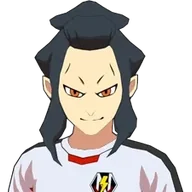
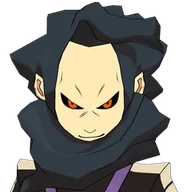
Pack de sprites del Épsilon y Épsilon Plus (IE2), con Dvalin y Zel en su versión alienígena
- Nueva herramienta tools/pixelart/vector/refs_wiki.py: baja las vistas 3D de la wiki inglesa para versiones que
  no están en la enciclopedia oficial (los alienígenas de Alius: (E) Desarm 3D, (E) Zel 3D...).
- Dvalin (Desarm), Zel, Kenvil, Mole, Keison, Titan, Fadra, Krypto, Swarm, Metron y Macure, como versión propia de
  estos dos equipos para no pisar su aspecto humano en Neo Japón o la Academia Alia.
- Retratos de Dvalin y Zel en estos equipos cambiados por su versión alienígena (antes salían de humanos).
- Equipación roja con mangas y pantalón grises; el portero de negro.

Claude-Session: https://claude.ai/code/session_017aMt3jMk1P86z2meq8r1MR

diff --git a/tools/pixelart/vector/chars_epsilon.py b/tools/pixelart/vector/chars_epsilon.py
@@ -1,0 +1,260 @@
+"""Épsilon y Épsilon Plus (IE2): la versión alienígena de la Academia Alius (Dvalin/Desarm, Zel, Metron...), con los
+modelos 3D de la wiki (Desarm, Zel, Macure) y los retratos. Van por equipo ('<equipo>:<jugador>') porque Dave Quagmire,
+Zeke Valanche y Ronny Metcalf salen también con su aspecto humano en otros equipos (Neo Japón, Academia Alia...)."""
+from chars import CHARS, L, OUTC, blob, bumpy, ell, pal, sheen, spk, strand
+from chars_otaku import back_hair
+from chars_sengoku import wavy
+from heads import quad
+
+WHITE = (255, 255, 255, 255)
+SIDE_SKULL = [(44, 92), (22, 88), (12, 64), (14, 36), (30, 16), (56, 10), (78, 18), (88, 36), (76, 44), (60, 48), (52, 62), (50, 80)]
+SKULL_F = [(16, 64), (14, 36), (26, 14), (50, 6), (74, 14), (86, 36), (84, 64)]
+SKULL_B = [(16, 70), (14, 36), (26, 14), (50, 6), (74, 14), (86, 36), (84, 70), (66, 86), (34, 86)]
+LONG_FACE = quad((20, 52), (18, 104), (50, 114)) + quad((50, 114), (82, 104), (80, 52))[1:] + quad((80, 52), (50, 26), (20, 52))[1:-1]
+E = {}
+
+
+def bald(view, c='skin', cd='skin_d'):
+    if view == 'front':
+        return [L(blob(SKULL_F), c), L(blob([(62, 12), (86, 34), (84, 62), (72, 58)], 6), cd, 'b', False)]
+    if view == 'side':
+        return [L(blob(SIDE_SKULL), c)]
+    return [L(blob(SKULL_B), c), L(blob([(58, 12), (86, 36), (84, 68), (66, 84)], 6), cd, 'b', False)]
+
+
+# ------------------------------------------------------------------ Dvalin (Desarm, el capitán): melena azul marino oscura enorme de
+# mechones en capas que sube hacia atrás como un cono, un cuello alto de tela oscura que le tapa la barbilla, piel pálida,
+# ojos naranjas y sonrisa maligna
+def jag(pts, depth=7, n=None):
+    """Contorno de mechones en capas: entre cada par de puntos, una punta hacia fuera."""
+    import math
+    out = []
+    for i in range(len(pts)):
+        a, b = pts[i], pts[(i + 1) % len(pts)]
+        mx, my = (a[0] + b[0]) / 2, (a[1] + b[1]) / 2
+        dx, dy = b[0] - a[0], b[1] - a[1]
+        ln = math.hypot(dx, dy) or 1
+        out += [a, (mx + dy / ln * depth, my - dx / ln * depth)]
+    return out
+
+
+# melena: un bloque alto de mechones en capas que sube hacia atrás
+DES_MANE_F = [L(jag([(2, 86), (-2, 56), (2, 28), (14, 6), (32, -12), (50, -22), (68, -12), (86, 6), (98, 28), (102, 56), (98, 86)], 8)),
+              L(blob([(60, -10), (94, 24), (98, 80), (84, 76)], 6), 'shade', 'b', False)] \
+             + [strand([(10 + k * 3, 20 + k * 14), (50, 6 + k * 14), (90 - k * 3, 20 + k * 14)], 'deep', 'b', 1.2) for k in range(4)]
+E['dave-quagmire'] = {
+    'body': 'normal', 'pal': pal('#24303e', '#f4dca4', iris='#e05010', cowl='#2a323e', cowl_d='#1a2028'),
+    'face': {'eyes': 'sharp', 'brows': 'angry', 'mouth': 'smile', 'mouth_y': 90, 'face_front': LONG_FACE, 'hairline': [(16, 72), (24, 54), (40, 40), (50, 48), (60, 40), (76, 54), (84, 72)]},
+    'front': DES_MANE_F + [
+                           spk((12, 46), (26, 40), (18, 84), 4, z='f'), spk((74, 40), (88, 46), (82, 84), 4, z='f', light_left=False),
+                           spk((40, 34), (50, 30), (46, 54), 3, z='f'), spk((50, 30), (60, 34), (54, 54), 3, z='f', light_left=False),
+                           L(blob([(6, 92), (14, 80), (28, 96), (50, 106), (72, 96), (86, 80), (94, 92), (90, 116), (50, 124), (10, 116)]), 'cowl', 'f', ln=True),
+                           L(blob([(56, 104), (86, 84), (90, 114), (56, 120)], 5), 'cowl_d', 'f', False)],
+    'side': [L(jag([(50, 92), (14, 92), (-6, 60), (-10, 24), (4, -6), (28, -24), (56, -20), (80, -2), (94, 26), (88, 46), (74, 44), (60, 50), (54, 70)], 8)),
+             strand([(70, -6), (30, 0), (2, 30)], 'deep', 'b', 1.2), strand([(80, 14), (40, 18), (0, 54)], 'deep', 'b', 1.2),
+             L(blob([(8, 46), (12, 84), (40, 88), (24, 60)], 6), 'shade', 'b', False),
+             spk((58, 26), (88, 36), (92, 66), 5, z='f', light_left=False),
+             L(blob([(30, 90), (60, 92), (90, 98), (92, 112), (60, 120), (26, 112)]), 'cowl', 'f', ln=True)],
+    'back': [L(jag([(2, 84), (-2, 56), (2, 28), (14, 6), (32, -12), (50, -22), (68, -12), (86, 6), (98, 28), (102, 56), (98, 84), (50, 88)], 8)),
+             L(blob([(58, -8), (96, 30), (96, 80), (66, 84)], 6), 'shade', 'b', False)]
+            + [strand([(4 + k * 2, 10 + k * 16), (50, -4 + k * 16), (96 - k * 2, 10 + k * 16)], 'deep', 'b', 1.2) for k in range(4)] + [
+                          L(blob([(8, 96), (50, 102), (92, 96), (90, 116), (50, 122), (10, 116)]), 'cowl', 'f', ln=True)],
+}
+E['dave-quagmire-desarm-cc'] = E['dave-quagmire']
+
+# ------------------------------------------------------------------ Zel: piel morena, pelo blanco peinado hacia arriba y a un lado
+# con un mechón en punta, ojos rojos y sonrisa con colmillos
+E['zeke-valanche'] = {
+    'body': 'normal', 'pal': pal('#ece4e0', '#a06a44', iris='#d0301a', shade='#c8b4b0'),
+    'face': {'eyes': 'sharp', 'brows': 'angry', 'mouth': 'grin', 'mouth_y': 92, 'hairline': (58, 50)},
+    'front': [spk((52, 10), (70, 14), (92, -14), 6, light_left=False), spk((32, 12), (52, 8), (44, -10), 5),
+              L(blob([(10, 74), (8, 40), (20, 14), (50, 6), (80, 14), (92, 40), (90, 74), (80, 66), (20, 66)])),
+              spk((6, 60), (12, 74), (-6, 80), 4), spk((88, 74), (94, 60), (106, 80), 4, light_left=False),
+              L(blob([(62, 12), (90, 38), (88, 70), (78, 66)], 6), 'shade', 'b', False),
+              spk((12, 46), (30, 38), (18, 70), 5, z='f'), spk((30, 38), (50, 32), (40, 58), 5, z='f'),
+              spk((50, 32), (70, 36), (62, 58), 5, z='f', light_left=False), spk((70, 38), (88, 46), (84, 70), 5, z='f', light_left=False)],
+    'side': [spk((40, 10), (60, 6), (64, -20), 6, light_left=False), spk((18, 34), (30, 16), (-6, 10), 6),
+             L(blob(SIDE_SKULL)), L(blob([(16, 48), (18, 76), (38, 88), (28, 60)], 6), 'shade', 'b', False),
+             spk((14, 60), (18, 44), (-8, 58), 5), spk((18, 76), (24, 62), (0, 86), 4),
+             spk((56, 30), (88, 40), (92, 66), 5, z='f', light_left=False)],
+    'back': [spk((52, 10), (70, 14), (92, -14), 6, light_left=False), spk((32, 12), (52, 8), (44, -10), 5),
+             L(blob([(10, 76), (8, 40), (20, 14), (50, 6), (80, 14), (92, 40), (90, 76), (66, 88), (34, 88)])),
+             spk((12, 74), (30, 86), (8, 98), 5), spk((30, 88), (50, 90), (40, 104), 5), spk((50, 90), (70, 88), (62, 104), 5, light_left=False),
+             spk((70, 86), (88, 74), (92, 98), 5, light_left=False),
+             L(blob([(58, 12), (90, 38), (88, 74), (66, 86)], 6), 'shade', 'b', False)],
+}
+
+# ------------------------------------------------------------------ Kenvil: piel tostada pálida, pelo granate de pinchos altos hacia
+# arriba, orejas puntiagudas y una sonrisa enorme con dientes
+E['craven-kenville'] = {
+    'body': 'normal', 'pal': pal('#7a1428', '#d8c098'),
+    'face': {'eyes': 'sharp', 'brows': 'angry', 'mouth': 'grin', 'mouth_y': 90, 'big_ears': 1, 'ear_out': 5, 'hairline': (56, 48)},
+    'front': [spk((14, 40), (26, 22), (6, -6), 6), spk((26, 20), (44, 12), (30, -20), 6), spk((44, 12), (58, 12), (52, -26), 6),
+              spk((58, 12), (74, 20), (76, -20), 6, light_left=False), spk((74, 22), (86, 40), (96, -4), 6, light_left=False),
+              L(blob([(14, 62), (12, 36), (24, 14), (50, 8), (76, 14), (88, 36), (86, 62)])),
+              L(blob([(62, 14), (88, 36), (86, 60), (74, 56)], 6), 'shade', 'b', False),
+              spk((22, 44), (40, 40), (30, 58), 4, z='f'), spk((60, 40), (78, 44), (70, 58), 4, z='f', light_left=False)],
+    'side': [spk((18, 36), (28, 18), (-6, 6), 7), spk((28, 18), (46, 10), (24, -20), 7), spk((46, 10), (64, 10), (56, -24), 6),
+             L(blob(SIDE_SKULL)), L(blob([(16, 48), (18, 76), (38, 88), (28, 60)], 6), 'shade', 'b', False)],
+    'back': [spk((14, 40), (26, 22), (6, -6), 6), spk((26, 20), (44, 12), (30, -20), 6), spk((44, 12), (58, 12), (52, -26), 6),
+             spk((58, 12), (74, 20), (76, -20), 6, light_left=False), spk((74, 22), (86, 40), (96, -4), 6, light_left=False),
+             L(blob(SKULL_B))] + back_hair(),
+}
+
+# ------------------------------------------------------------------ Mole: una capucha roja con forma de corazón y dos alas en punta a
+# los lados que le enmarca la cara, y una mascarilla gris con un tubo; ojos azules
+E['anna-mole'] = {
+    'body': 'chica', 'pal': pal('#a8243a', '#f6d4b8', iris='#3a5a9a', hood='#a8243a', hood_d='#7a1428', mask='#9a9aa4', mask_d='#6a6a74'),
+    'face': {'eyes': 'big', 'brows': False, 'mouth': 'none', 'ears': False, 'hairline': False},
+    'front': [L(blob([(-14, 22), (10, 30), (30, 4), (50, 16), (70, 4), (90, 30), (114, 22), (96, 52), (90, 88), (80, 66), (20, 66), (10, 88), (4, 52)]), 'hood', 'f', ln=True),
+              L(blob([(70, 8), (90, 30), (110, 24), (94, 50), (88, 82), (80, 62)], 6), 'hood_d', 'f', False),
+              L(blob([(30, 82), (50, 78), (70, 82), (68, 96), (50, 102), (32, 96)]), 'mask', 'f', ln=True),
+              L(quad((64, 94), (76, 104), (70, 116)), 'mask_d', 'f', False, False, 3.0)],
+    'side': [L(blob(SIDE_SKULL)),
+             L(blob([(8, 96), (0, 50), (10, 14), (36, -2), (66, 4), (88, 22), (96, 50), (84, 62), (66, 58), (56, 74), (54, 96)]), 'hood', 'f', ln=True),
+             L(blob([(10, 30), (-10, 22), (2, 44)], 4), 'hood_d', 'f', ln=True),
+             L(blob([(74, 80), (92, 82), (92, 96), (76, 98)]), 'mask', 'f', ln=True), L(quad((76, 96), (64, 104), (60, 116)), 'mask_d', 'f', False, False, 3.0)],
+    'back': [L(blob([(-14, 22), (10, 30), (30, 4), (50, 16), (70, 4), (90, 30), (114, 22), (96, 52), (92, 96), (50, 104), (8, 96), (4, 52)]), 'hood', 'f', ln=True),
+             L(blob([(56, 10), (90, 30), (108, 24), (94, 50), (90, 94), (60, 100)], 6), 'hood_d', 'f', False)],
+}
+
+# ------------------------------------------------------------------ Keison: un gorro negro redondo calado hasta los ojos con un
+# mechón verde largo que le cae por delante de un ojo, piel pálida, barba oscura en la mandíbula y un ojo naranja
+E['kayson-wattever'] = {
+    'body': 'normal', 'pal': pal('#1e8a5a', '#f6dcb0', iris='#e07a10', hat='#26262c', hat_d='#141418', beard='#4a3a2a'),
+    'face': {'eyes': 'sharp', 'brows': 'angry', 'mouth': 'frown', 'mouth_y': 94, 'face_front': LONG_FACE, 'big_ears': 1, 'ear_out': 4, 'hairline': False},
+    'front': [L(blob([(22, 92), (30, 86), (50, 90), (70, 86), (78, 92), (66, 110), (50, 116), (34, 110)]), 'beard', 'f', False),
+              L(blob([(8, 56), (6, 30), (20, 6), (50, -2), (80, 6), (94, 30), (92, 56), (50, 52)]), 'hat', 'f', ln=True),
+              L(blob([(62, 2), (92, 28), (92, 54), (72, 52)], 6), 'hat_d', 'f', False),
+              L(blob([(30, 40), (46, 36), (44, 70), (34, 104), (24, 100), (30, 70)]), 'mid', 'f', ln=True),
+              L(blob([(38, 42), (44, 40), (42, 70), (32, 100), (34, 70)], 5), 'shade', 'f', False)],
+    'side': [L(blob(SIDE_SKULL)),
+             L(blob([(10, 58), (8, 28), (24, 6), (54, -2), (82, 6), (96, 28), (96, 54), (50, 54)]), 'hat', 'f', ln=True),
+             L(blob([(72, 84), (94, 86), (92, 104), (78, 110), (64, 96)]), 'beard', 'f', False),
+             L(blob([(84, 44), (94, 46), (92, 76), (86, 100), (80, 76)]), 'mid', 'f', ln=True)],
+    'back': [L(blob(SKULL_B), 'shade'), L(blob([(8, 64), (6, 30), (20, 6), (50, -2), (80, 6), (94, 30), (92, 64), (50, 68)]), 'hat', 'f', ln=True),
+             L(blob([(58, 2), (92, 28), (92, 62), (66, 66)], 6), 'hat_d', 'f', False)],
+}
+
+# ------------------------------------------------------------------ Titan: corpulento, piel naranja, una visera gris que le cruza la
+# cara con dos ojos rojos brillantes, antenas moradas en lo alto y una sonrisa de dientes apretados
+E['mike-tytan'] = {
+    'body': 'corpulento', 'pal': pal('#7a4a7a', '#f0a868', visor='#b8bcc4', visor_d='#888c94', glow='#e02010'),
+    'face': {'eyes': 'none', 'brows': False, 'mouth': 'grin', 'mouth_y': 92, 'ears': False, 'hairline': False},
+    'front': bald('front') + [spk((40, 14), (48, 10), (32, -16), 3), spk((48, 10), (56, 10), (50, -20), 3), spk((56, 10), (64, 14), (70, -14), 3, light_left=False),
+                              L(blob([(4, 64), (8, 56), (92, 56), (96, 64), (94, 80), (6, 80)], 4), 'visor', 'f', ln=True),
+                              L([(20, 62), (80, 62), (78, 74), (22, 74)], (40, 30, 36, 255), 'f', False),
+                              L(ell(36, 68, 4.4, 4), 'glow', 'f', False), L(ell(64, 68, 4.4, 4), 'glow', 'f', False)],
+    'side': bald('side') + [spk((40, 10), (50, 8), (36, -18), 3), spk((50, 8), (58, 10), (56, -18), 3, light_left=False),
+                            L(blob([(40, 56), (96, 58), (98, 78), (40, 80)], 4), 'visor', 'f', ln=True), L(ell(88, 68, 3.4, 4), 'glow', 'f', False)],
+    'back': bald('back') + [spk((40, 14), (48, 10), (32, -16), 3), spk((56, 10), (64, 14), (70, -14), 3, light_left=False),
+                            L(blob([(4, 64), (8, 56), (92, 56), (96, 64), (94, 80), (6, 80)], 4), 'visor', 'f', ln=True)],
+}
+
+# ------------------------------------------------------------------ Fadra: piel morena, cabeza calva en forma de cono con una franja
+# de pelo azul claro en el centro, orejas puntiagudas, ojos rasgados y sonrisa enorme
+FADRA_F = [(14, 66), (14, 40), (30, 10), (50, -14), (70, 10), (86, 40), (86, 66)]
+E['mads-hatter'] = {
+    'body': 'normal', 'pal': pal('#5a9ac0', '#8a5a3a'),
+    'face': {'eyes': 'sharp', 'brows': 'angry', 'mouth': 'grin', 'mouth_y': 90, 'big_ears': 1.5, 'ear_out': 6, 'hairline': False},
+    'front': [L(blob(FADRA_F), 'skin'), L(blob([(62, 6), (86, 40), (84, 64), (72, 60)], 6), 'skin_d', 'b', False),
+              L(blob([(44, 20), (48, 0), (50, -12), (52, 0), (56, 20), (50, 40)]), 'mid', 'b', ln=True)],
+    'side': [L(blob([(44, 92), (22, 88), (12, 64), (14, 36), (34, 6), (56, -12), (70, 10), (88, 36), (76, 44), (60, 48), (52, 62), (50, 80)]), 'skin'),
+             L(blob([(40, 6), (56, -10), (62, 4), (46, 20)]), 'mid', 'b', ln=True)],
+    'back': [L(blob(FADRA_F + [(66, 86), (34, 86)]), 'skin'), L(blob([(58, 6), (86, 40), (84, 70), (66, 84)], 6), 'skin_d', 'b', False),
+             L(blob([(44, 20), (48, 0), (50, -12), (52, 0), (56, 20), (50, 60)]), 'mid', 'b', ln=True)],
+}
+
+# ------------------------------------------------------------------ Krypto: melena rubia ceniza en grandes rizos enrollados que le
+# enmarcan la cara y un turbante azul con una joya roja en lo alto; ojos rojos
+E['karen-ripton'] = {
+    'body': 'chica', 'pal': pal('#c8bc94', '#f6dcc0', iris='#c02a2a', band='#2a7aa8', band_d='#1e5a80', gem='#c82a2a'),
+    'face': {'eyes': 'sharp', 'brows': False, 'mouth': 'line', 'mouth_y': 92, 'ears': False, 'hairline': False},
+    'front': [L(bumpy(12, 56, 14, 18, 8, 0.1)), L(bumpy(88, 56, 14, 18, 8, 0.1)), L(bumpy(14, 90, 14, 14, 8, 0.1)), L(bumpy(86, 90, 14, 14, 8, 0.1)),
+              L(bumpy(20, 92, 6, 6, 6, 0.1), 'shade', 'b', False), L(bumpy(80, 92, 6, 6, 6, 0.1), 'shade', 'b', False),
+              L(blob([(14, 56), (16, 24), (30, 4), (50, -2), (70, 4), (84, 24), (86, 56), (50, 50)]), 'band', 'f', ln=True),
+              L(blob([(60, 4), (84, 24), (86, 54), (70, 52)], 6), 'band_d', 'f', False),
+              L(ell(50, 4, 8, 5), 'gem', 'f', ln=True), L(ell(50, 4, 6, 3), 'mid', 'f', False),
+              L(bumpy(24, 44, 16, 12, 7, 0.1), 'mid', 'f', ln=True), L(bumpy(76, 44, 16, 12, 7, 0.1), 'mid', 'f', ln=True),
+              L(ell(26, 44, 6, 4), 'shade', 'f', False), L(ell(74, 44, 6, 4), 'shade', 'f', False)],
+    'side': [L(bumpy(28, 60, 18, 22, 8, 0.1)), L(bumpy(30, 92, 16, 14, 8, 0.1)), L(blob(SIDE_SKULL)),
+             L(blob([(14, 56), (14, 24), (32, 2), (60, -2), (82, 10), (92, 34), (90, 54), (50, 52)]), 'band', 'f', ln=True),
+             L(ell(50, 0, 7, 5), 'gem', 'f', ln=True), L(bumpy(74, 48, 12, 8, 6, 0.1), 'mid', 'f', ln=True)],
+    'back': [L(bumpy(50, 80, 42, 24, 12, 0.1)), L(bumpy(66, 84, 20, 14, 8, 0.1), 'shade', 'b', False),
+             L(blob([(14, 62), (16, 24), (30, 4), (50, -2), (70, 4), (84, 24), (86, 62), (50, 66)]), 'band', 'f', ln=True),
+             L(blob([(58, 4), (84, 24), (86, 60), (66, 64)], 6), 'band_d', 'f', False), L(ell(50, 4, 8, 5), 'gem', 'f', ln=True)],
+}
+
+# ------------------------------------------------------------------ Swarm: pelo verde oscuro en una mata de pinchos que le tapa los
+# ojos y le cae a los lados; solo se le ve una sonrisa enorme de dientes
+E['yakker-plantsworm'] = {
+    'body': 'normal', 'pal': pal('#1e4a2a', '#f6b878'),
+    'face': {'eyes': 'none', 'brows': False, 'mouth': 'grin', 'mouth_y': 90, 'hairline': False},
+    'front': [spk((-2, 54), (8, 34), (-22, 30), 7), spk((92, 34), (102, 54), (122, 30), 7, light_left=False),
+              spk((10, 28), (30, 10), (0, -10), 7), spk((30, 10), (52, 4), (36, -18), 7), spk((52, 4), (72, 10), (72, -18), 7, light_left=False),
+              spk((70, 10), (90, 28), (104, -6), 7, light_left=False),
+              L(blob([(2, 72), (0, 40), (14, 12), (50, 2), (86, 12), (100, 40), (98, 72)])),
+              L(blob([(62, 8), (98, 38), (96, 70), (84, 66)], 6), 'shade', 'b', False),
+              L(blob([(6, 60), (8, 40), (24, 26), (50, 20), (76, 26), (92, 40), (94, 60), (80, 78), (66, 72), (50, 80), (34, 72), (20, 78)]), 'mid', 'f', ln=True),
+              L(blob([(60, 26), (92, 42), (92, 60), (78, 74)], 6), 'shade', 'f', False),
+              spk((14, 64), (28, 66), (18, 84), 4, z='f'), spk((72, 66), (86, 64), (82, 84), 4, z='f', light_left=False)],
+    'side': [spk((18, 32), (30, 12), (-8, 4), 8), spk((30, 12), (52, 4), (36, -18), 7), spk((10, 54), (14, 34), (-20, 40), 8), spk((12, 74), (14, 56), (-14, 80), 6),
+             L(blob(SIDE_SKULL)), L(blob([(16, 48), (18, 76), (38, 88), (28, 60)], 6), 'shade', 'b', False),
+             L(blob([(50, 20), (80, 26), (98, 46), (94, 70), (82, 66), (70, 74), (60, 60)]), 'mid', 'f', ln=True)],
+    'back': [spk((-2, 54), (8, 34), (-22, 30), 7), spk((92, 34), (102, 54), (122, 30), 7, light_left=False),
+             spk((10, 28), (30, 10), (0, -10), 7), spk((30, 10), (52, 4), (36, -18), 7), spk((52, 4), (72, 10), (72, -18), 7, light_left=False),
+             spk((70, 10), (90, 28), (104, -6), 7, light_left=False),
+             L(blob([(2, 76), (0, 40), (14, 12), (50, 2), (86, 12), (100, 40), (98, 76), (50, 84)])),
+             spk((6, 72), (26, 82), (4, 96), 6), spk((26, 84), (50, 88), (36, 102), 6), spk((50, 88), (74, 84), (66, 102), 6, light_left=False),
+             spk((74, 82), (94, 72), (96, 96), 6, light_left=False),
+             L(blob([(58, 8), (98, 38), (96, 74), (66, 82)], 6), 'shade', 'b', False)],
+}
+
+# ------------------------------------------------------------------ Metron: pelo morado de pinchos que le caen por los lados de la
+# cara y una cinta oscura ancha en la frente; ojos castaños
+E['ronny-metcalf'] = {
+    'body': 'normal', 'pal': pal('#4a3a9a', '#f6c08e', iris='#8a4a1a', band='#2a2e3a'),
+    'face': {'eyes': 'sharp', 'brows': False, 'mouth': 'smile', 'mouth_y': 92, 'hairline': False},
+    'front': [L(blob([(8, 84), (4, 44), (16, 12), (50, 2), (84, 12), (96, 44), (92, 84), (80, 76), (80, 60), (20, 60), (20, 76)])),
+              spk((4, 66), (12, 80), (-6, 92), 4), spk((88, 80), (96, 66), (106, 92), 4, light_left=False),
+              L(blob([(62, 10), (94, 44), (90, 82), (82, 80)], 6), 'shade', 'b', False), sheen(22, 48, 14, 3),
+              spk((10, 46), (22, 46), (16, 86), 4, z='f'), spk((78, 46), (90, 46), (84, 86), 4, z='f', light_left=False),
+              L(blob([(16, 62), (16, 46), (50, 40), (84, 46), (84, 62), (50, 58)]), 'band', 'f', ln=True),
+              spk((24, 36), (44, 30), (34, 50), 4, z='f'), spk((56, 30), (76, 36), (66, 50), 4, z='f', light_left=False)],
+    'side': [L(blob([(48, 92), (16, 88), (4, 60), (8, 28), (28, 6), (58, 2), (84, 12), (96, 34), (94, 56), (76, 54), (62, 56), (56, 72), (52, 88)])),
+             spk((6, 76), (16, 88), (-6, 96), 4), L(blob([(6, 50), (8, 86), (40, 90), (24, 64)], 6), 'shade', 'b', False),
+             L(quad((14, 48), (50, 40), (94, 46)) + quad((94, 60), (50, 56), (14, 62)), 'band', 'f', ln=True),
+             spk((52, 56), (64, 56), (60, 90), 3, z='f')],
+    'back': [L(blob([(8, 86), (4, 44), (16, 12), (50, 2), (84, 12), (96, 44), (92, 86), (50, 92)])),
+             spk((12, 82), (30, 88), (14, 100), 4), spk((30, 88), (50, 92), (40, 104), 4), spk((50, 92), (70, 88), (60, 104), 4, light_left=False),
+             spk((70, 88), (88, 82), (86, 100), 4, light_left=False),
+             L(blob([(58, 10), (94, 44), (90, 84), (66, 90)], 6), 'shade', 'b', False),
+             L(quad((6, 50), (50, 42), (94, 50)) + quad((94, 64), (50, 56), (6, 64)), 'band', 'f', ln=True)],
+}
+
+# ------------------------------------------------------------------ Macure: pelo verde azulado corto con flequillo y dos moños
+# metálicos enormes y redondos a los lados (con luces amarillas), de los que bajan dos cables junto a la cara
+def bun(cx, cy, view='front'):
+    return [L(ell(cx, cy, 15, 13), 'metal', 'f', ln=True), L(ell(cx, cy, 9, 8), 'mid', 'f', ln=True), L(ell(cx + (8 if cx > 50 else -8), cy - 4, 2.4, 2.4), 'light2', 'f', False)]
+
+
+E['carrie-mccuring'] = {
+    'body': 'chica', 'pal': pal('#2a9a9a', '#fce4c8', iris='#2a7a7a', metal='#c8ccd4', light2='#f0d020'),
+    'face': {'eyes': 'big', 'brows': False, 'mouth': 'smile', 'mouth_y': 92, 'hairline': (62, 52)},
+    'front': [L(blob([(12, 70), (10, 40), (22, 14), (50, 6), (78, 14), (90, 40), (88, 70)])),
+              L(blob([(62, 12), (88, 36), (86, 66), (74, 62)], 6), 'shade', 'b', False), sheen(24, 48, 14, 3),
+              spk((14, 46), (32, 38), (20, 66), 5, z='f'), spk((32, 38), (50, 34), (42, 62), 5, z='f'),
+              spk((50, 34), (68, 38), (58, 62), 5, z='f', light_left=False), spk((68, 40), (86, 46), (80, 66), 5, z='f', light_left=False),
+              L(quad((14, 30), (8, 60), (18, 100)), (220, 220, 228, 255), 'f', False, False, 1.6), L(quad((86, 30), (92, 60), (82, 100)), (220, 220, 228, 255), 'f', False, False, 1.6)]
+             + bun(6, 18) + bun(94, 18),
+    'side': [L(blob([(46, 92), (20, 88), (8, 60), (10, 28), (28, 8), (58, 4), (82, 14), (94, 34), (92, 56), (76, 54), (62, 56), (56, 72), (52, 88)])),
+             L(blob([(12, 50), (14, 84), (40, 88), (26, 64)], 6), 'shade', 'b', False),
+             spk((56, 30), (88, 40), (92, 66), 5, z='f', light_left=False), L(quad((40, 30), (36, 60), (44, 100)), (220, 220, 228, 255), 'f', False, False, 1.6)]
+            + bun(34, 14),
+    'back': [L(blob([(12, 76), (10, 40), (22, 14), (50, 6), (78, 14), (90, 40), (88, 76), (50, 86)])),
+             L(blob([(58, 12), (88, 36), (86, 74), (66, 84)], 6), 'shade', 'b', False)] + bun(6, 18) + bun(94, 18),
+}
+
+for _t in ('ie2-epsilon', 'ie2-epsilon-kai'):
+    for _pid, _spec in E.items():
+        CHARS[f'{_t}:{_pid}'] = _spec

diff --git a/tools/pixelart/vector/refs_wiki.py b/tools/pixelart/vector/refs_wiki.py
@@ -1,0 +1,44 @@
+"""Referencias 3D de la wiki inglesa para los personajes cuya versión no está en la enciclopedia oficial (por ejemplo los
+alienígenas de la Academia Alius): archivos "(<equipo>) <nombre> 3D (1..4).png" (o "(VR) (1..4)").
+
+Uso: python3 -I tools/pixelart/vector/refs_wiki.py <carpeta> <id>=<prefijo> ...
+     p. ej. refs_wiki.py ref/ie2-epsilon dave-quagmire="(E) Desarm" zeke-valanche="(E) Zel"
+Escribe <id>_v1.png ... <id>_v4.png (las cuatro vistas tal cual) para elegir cuál es cada una.
+"""
+import io
+import json
+import os
+import sys
+import urllib.parse
+import urllib.request
+
+from PIL import Image
+
+API = 'https://inazuma-eleven.fandom.com/api.php'
+UA = {'User-Agent': 'InaMatch (proyecto de fans)'}
+
+
+def get(url):
+    return urllib.request.urlopen(urllib.request.Request(url, headers=UA), timeout=90).read()
+
+
+def main():
+    out = sys.argv[1]
+    os.makedirs(out, exist_ok=True)
+    for arg in sys.argv[2:]:
+        pid, prefix = arg.split('=', 1)
+        q = urllib.parse.urlencode({'action': 'query', 'list': 'allimages', 'aiprefix': prefix.replace(' ', '_') + '_3D', 'ailimit': 50, 'aiprop': 'url', 'format': 'json'})
+        files = {i['name']: i['url'] for i in json.loads(get(API + '?' + q))['query']['allimages']}
+        for v in ('_(VR)', '', '_(GO)', '_(SD)'):
+            names = [f"{prefix.replace(' ', '_')}_3D{v}_({k}).png" for k in range(1, 5)]
+            if all(n in files for n in names):
+                for k, n in enumerate(names, 1):
+                    Image.open(io.BytesIO(get(files[n]))).convert('RGBA').save(os.path.join(out, f'{pid}_v{k}.png'))
+                print(pid, 'ok', v or '(DS)')
+                break
+        else:
+            print(pid, 'sin 3D en la wiki:', sorted(files)[:6])
+
+
+if __name__ == '__main__':
+    main()

diff --git a/tools/pixelart/vector/export.py b/tools/pixelart/vector/export.py
@@ -23,7 +23,7 @@ REF_PX = 80
 OUT = (60, 24, 16, 255)
 
 # equipos con todos sus jugadores dibujados (packs): se exportan con los colores de cada equipo
-TEAMS = ['ie1-raimon', 'ie1-teikoku-gakuen', 'ie1-occult', 'ie1-nose', 'ie1-shuuyou-meito-gakuen', 'ie1-ichibangai-sally-s', 'ie1-sengoku-igajima', 'ie1-kidokawa-seishuu', 'ie1-mikage-sennou', 'ie1-zeus', 'ie1-senbayama', 'ie1-kasamino', 'ie1-inazuma-kfc', 'ie1-inazuma-eleven', 'ie2-second-raimon', 'ie2-dark-emperors', 'ie2-young-inazuma', 'ie2-gemini-storm']
+TEAMS = ['ie1-raimon', 'ie1-teikoku-gakuen', 'ie1-occult', 'ie1-nose', 'ie1-shuuyou-meito-gakuen', 'ie1-ichibangai-sally-s', 'ie1-sengoku-igajima', 'ie1-kidokawa-seishuu', 'ie1-mikage-sennou', 'ie1-zeus', 'ie1-senbayama', 'ie1-kasamino', 'ie1-inazuma-kfc', 'ie1-inazuma-eleven', 'ie2-second-raimon', 'ie2-dark-emperors', 'ie2-young-inazuma', 'ie2-gemini-storm', 'ie2-epsilon', 'ie2-epsilon-kai']
 # dibujos que no están en chars.py (Axel tiene su propio módulo, head_axel.py)
 SPECIAL = {}
 

diff --git a/tools/wiki/teams.py b/tools/wiki/teams.py
@@ -93,8 +93,9 @@ STYLE = {
     'Second Raimon': ('#f2c230', '#2a5fc0', '#e8892b', '#d9a400'),
     # Tormenta de Géminis: traje gris pardo con tirantes naranjas y un orbe azul, mangas crema; portero azul marino
     'Gemini Storm': ('#6e6460', '#4a4240', '#2a3450', '#e07020', '#e8e0d0', '#6e6460', '#2a3450', '#2a3450'),
-    'Epsilon': ('#3a2a6a', '#1a1a2a', '#c83a3a', '#4a3a8a'),
-    'Epsilon Kai': ('#3a2a6a', '#1a1a2a', '#c83a3a', '#4a3a8a'),
+    # Épsilon (y Épsilon Plus): traje rojo con mangas y pantalón gris oscuro, medias rojas; el portero (Dvalin / Zel) de negro
+    'Epsilon': ('#b81e3a', '#3a3a44', '#28262c', '#2a8aa0', '#3a3a44', '#b81e3a', '#28262c', '#28262c'),
+    'Epsilon Kai': ('#b81e3a', '#3a3a44', '#28262c', '#2a8aa0', '#3a3a44', '#b81e3a', '#28262c', '#28262c'),
     'The Genesis': ('#e8e8e8', '#5a3a8a', '#c8a020', '#7a5aa8'),
     'Diamond Dust': ('#a8d8f2', '#2a4a6a', '#f2f2f2', '#4a8ac0'),
     'Prominence': ('#d8342a', '#2a1a1a', '#f2a020', '#b82a22'),

diff --git a/tools/pixelart/vector/chars.py b/tools/pixelart/vector/chars.py
@@ -547,3 +547,4 @@ import chars_raimon2  # noqa: E402,F401
 import chars_ie2misc  # noqa: E402,F401
 import chars_gemini  # noqa: E402,F401
 import chars_young  # noqa: E402,F401
+import chars_epsilon  # noqa: E402,F401
